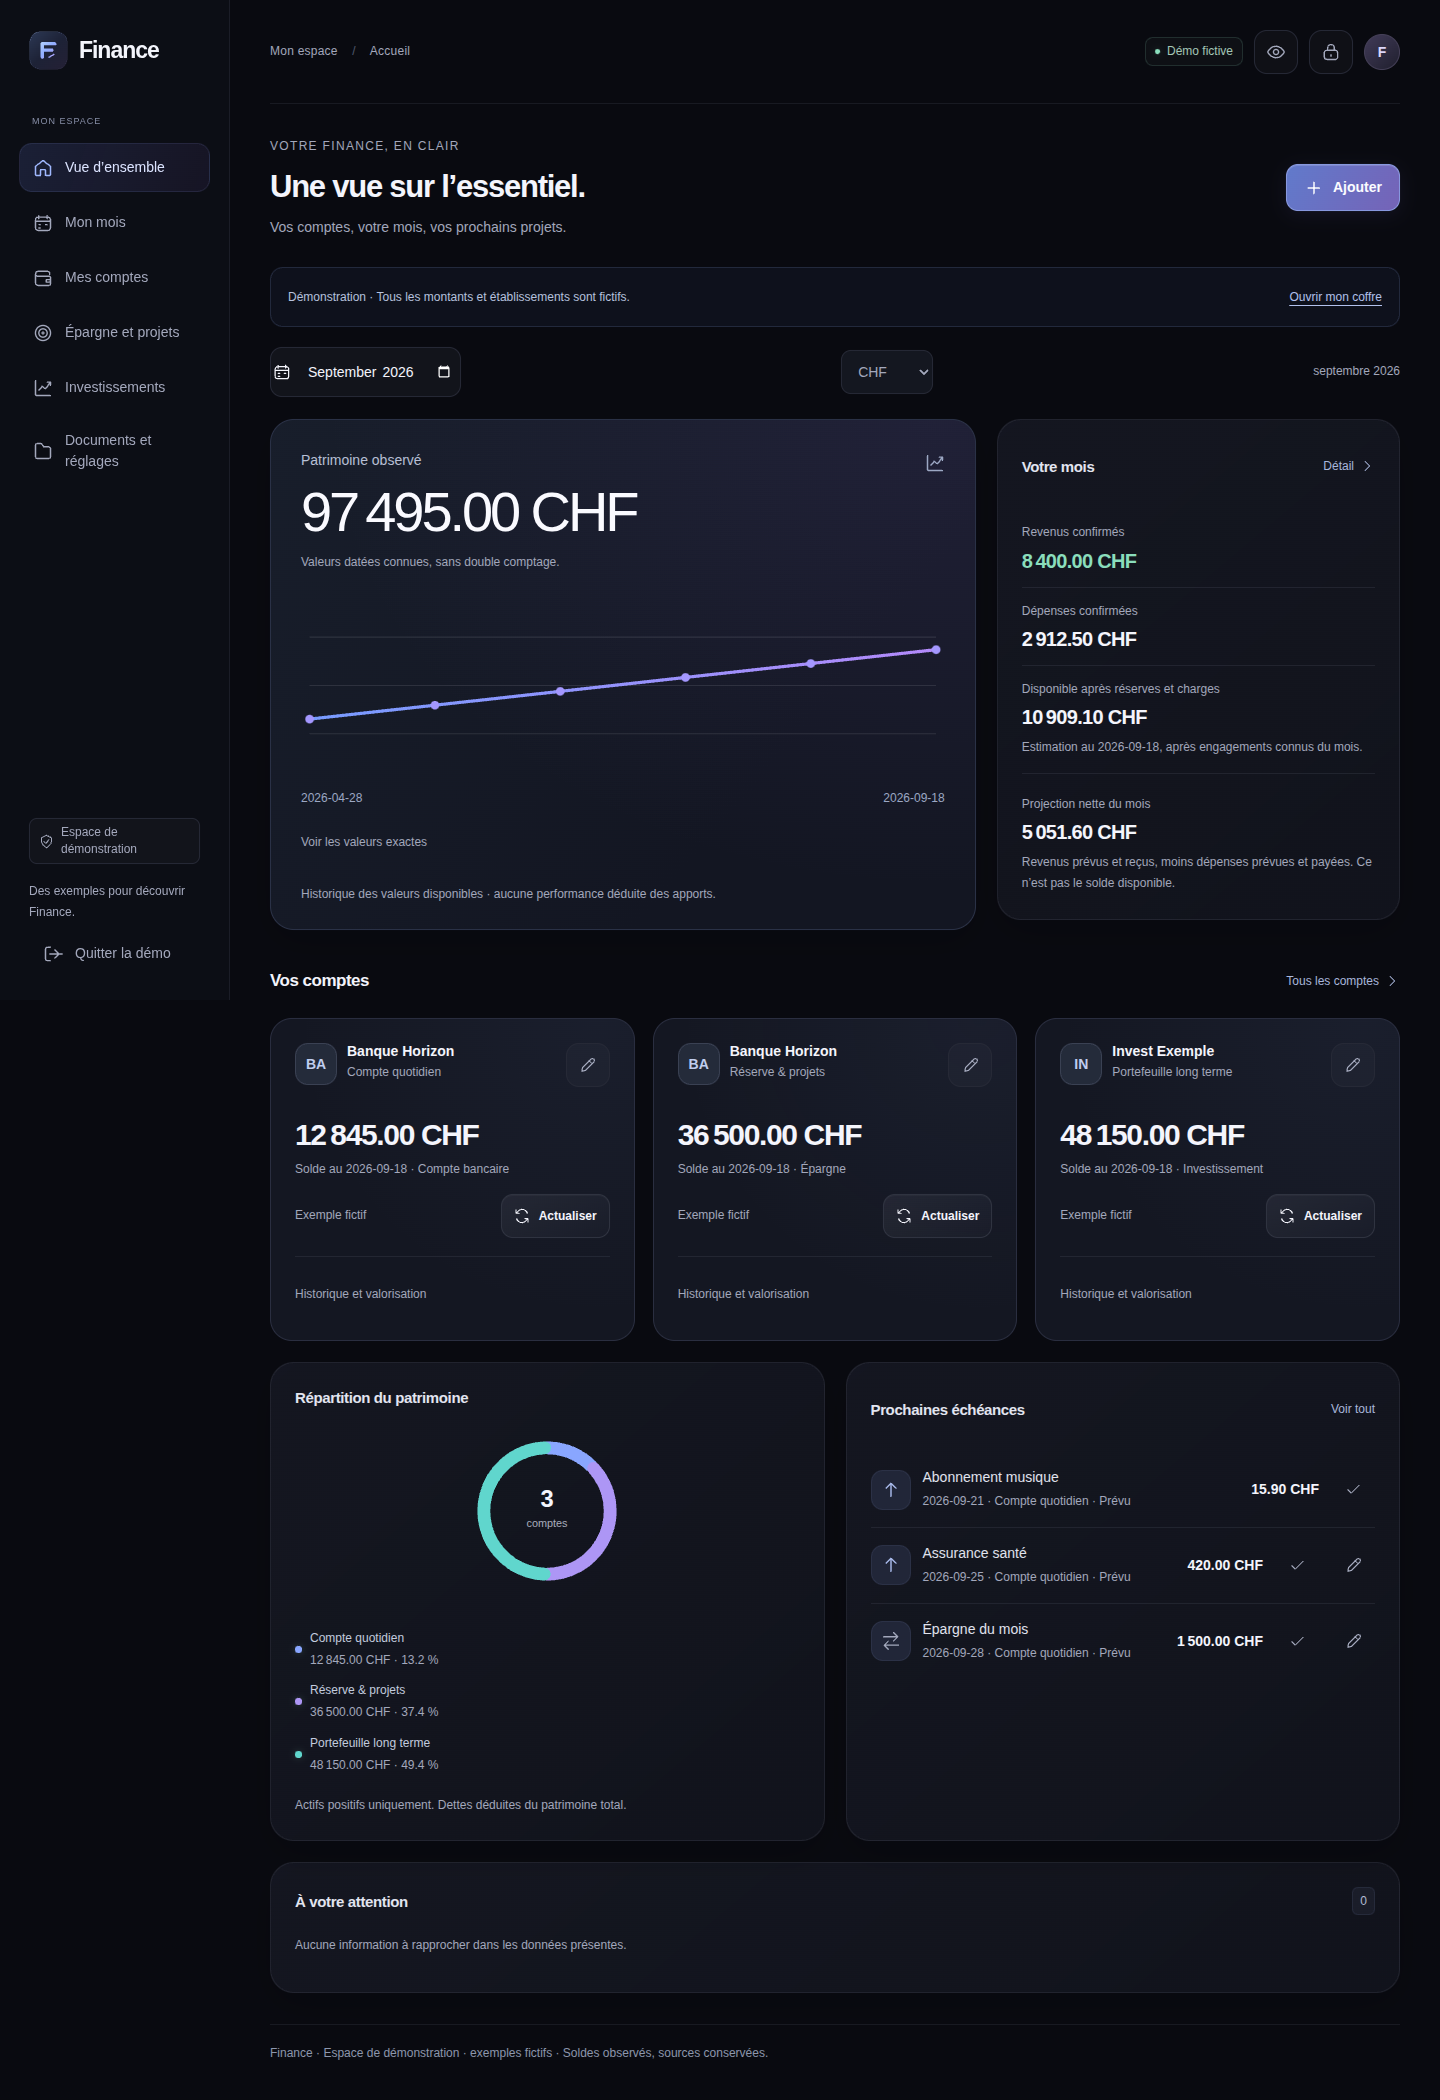
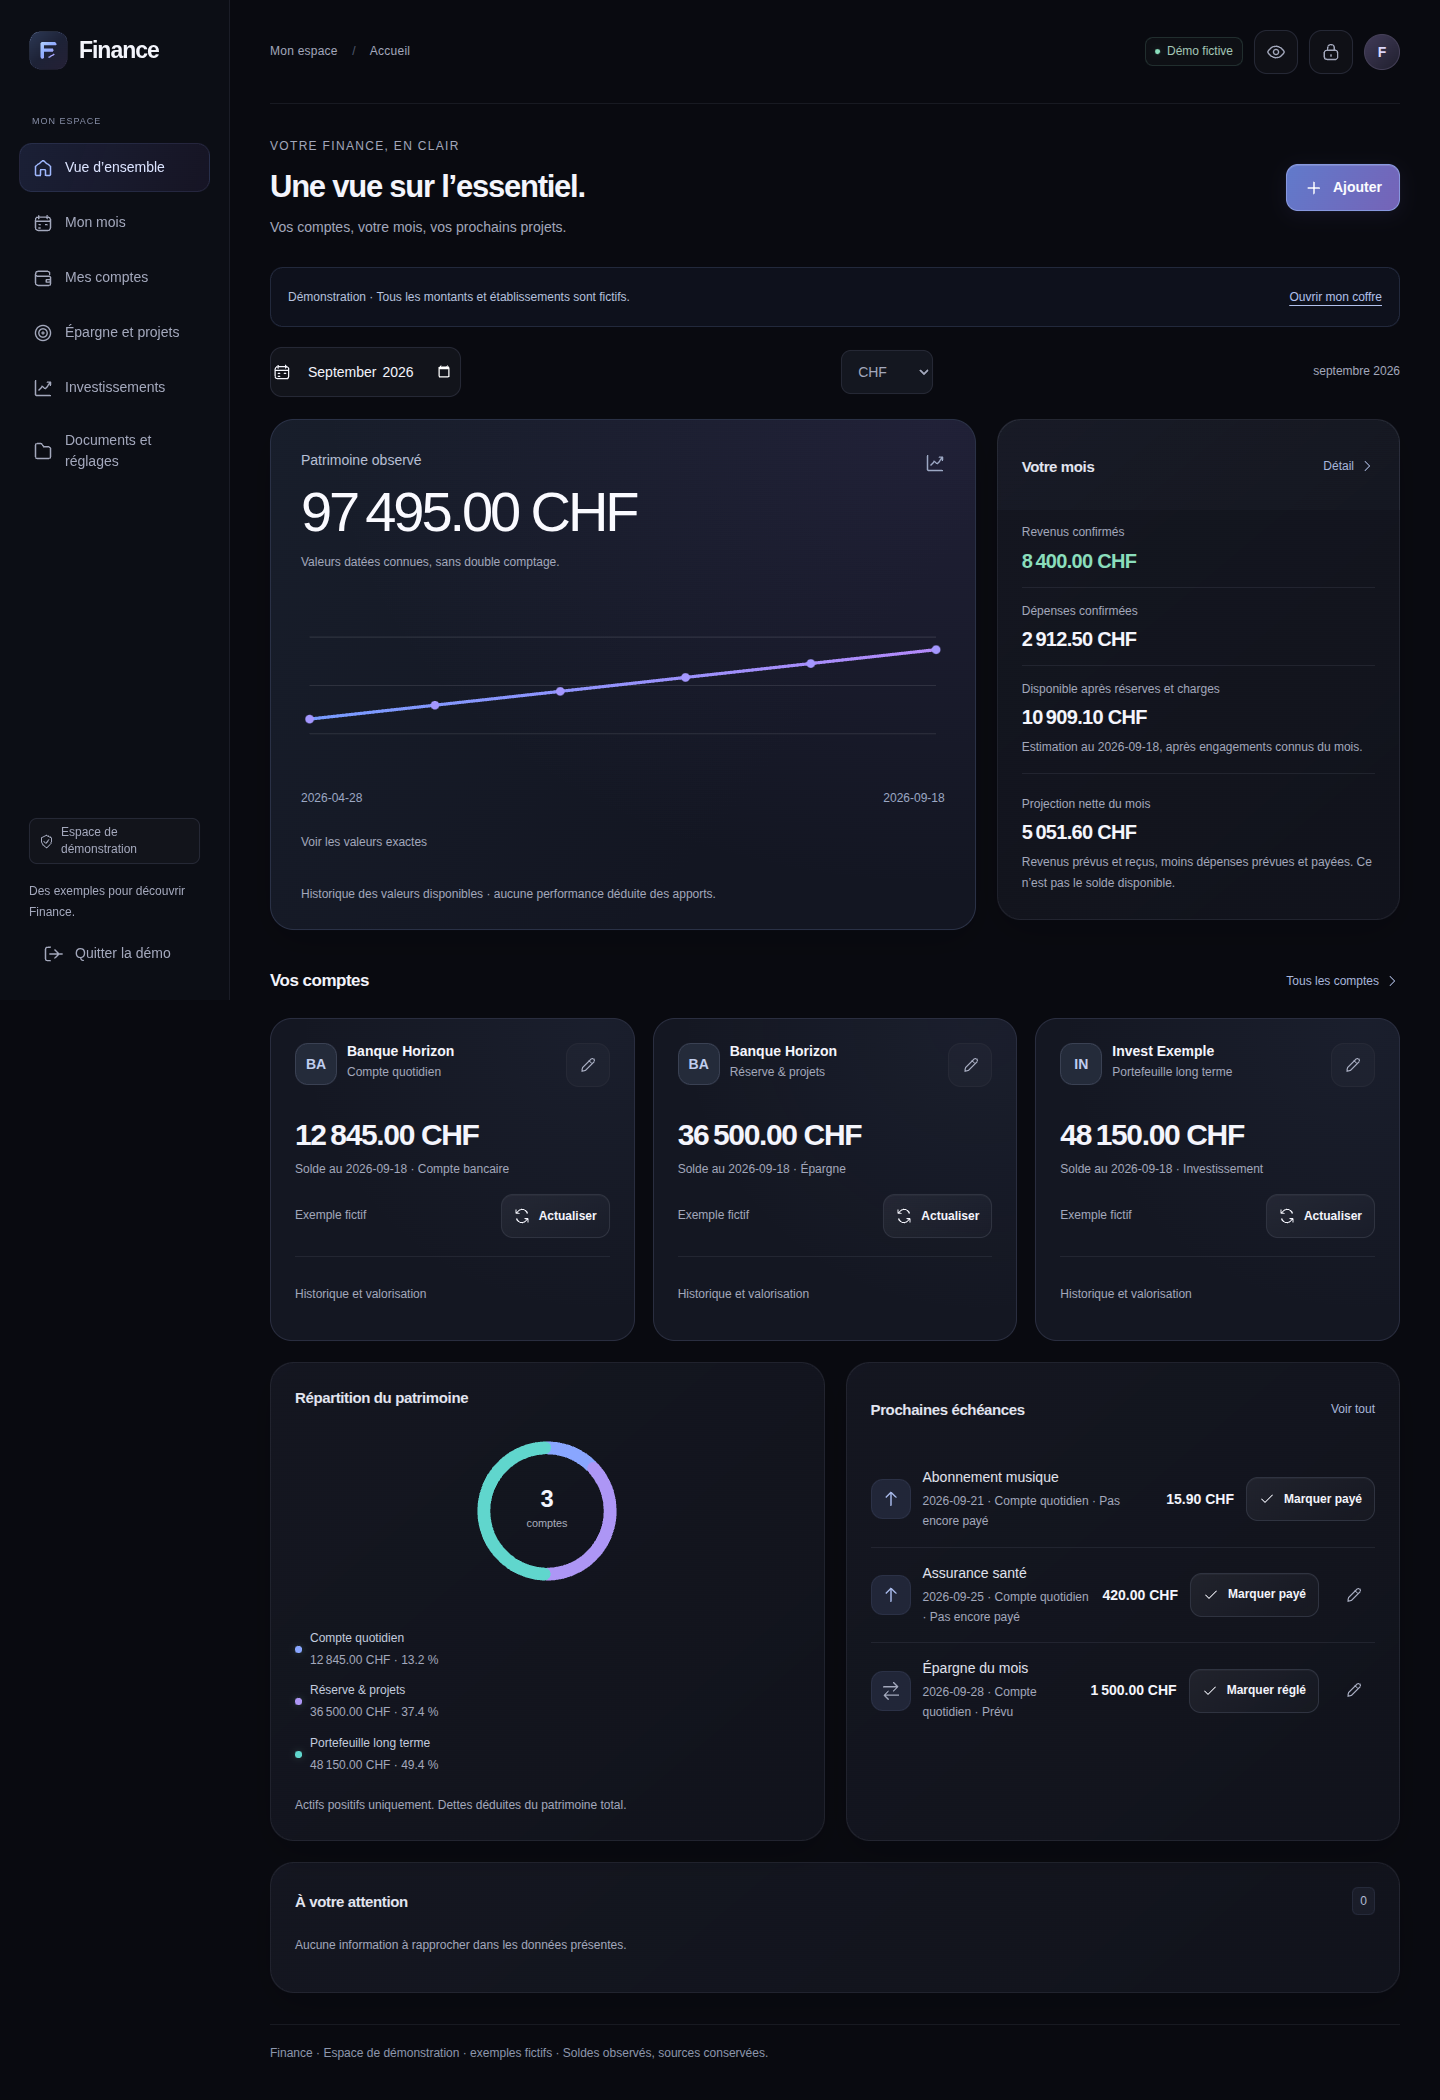
V2.2 (statuts) : payé/reçu explicites, date modifiable, correction sans perte
Volet "statuts" de V2.2 — le sélecteur de mois français et la distinction
cohorte d'échéances / flux réalisé restent non traités.

Remplace le bouton icône générique "Confirmer" par une action texte
sensible au type ("Marquer payé"/"Marquer reçu"/"Marquer réglé") qui ouvre
désormais l'éditeur au lieu d'écrire silencieusement status:"settled" et
date:today() au clic : la date de règlement reste visible et modifiable
avant validation, comme l'exige abonnements.md. EditorSpec gagne un champ
transaction optionnel pour préremplir l'éditeur depuis une occurrence
virtuelle pas encore persistée (data.transactions.find ne peut pas la
trouver par id puisqu'elle n'existe pas encore).

Ajoute une correction "Remettre à payer/recevoir/régler", limitée aux
occurrences liées à une récurrence (occurrenceDate fiable comme date
d'échéance de repli) : remet le statut à prévu, restaure la date
d'échéance, et consigne l'ancienne date de règlement dans source.note au
lieu de l'effacer. Confirmation explicite avant d'agir ; l'identifiant de
la transaction ne change jamais, donc un reçu déjà joint reste lié.

Les libellés de statut ("Payé"/"Reçu"/"Pas encore payé"/"Pas encore reçu")
remplacent le "Confirmé"/"Prévu" générique dans les lignes d'opération et
dans le champ État de l'éditeur, sensibles au type revenu/dépense/virement.

typecheck, 93/93 tests unitaires (inchangés, ce lot est uniquement UI) et
build vérifiés ; les 4 scénarios e2e passent rejoués individuellement,
[…]

Changed region(s): [[0.5938, 0.7119, 0.9062, 0.8357], [0.9062, 0.7119, 0.9375, 0.7429], [0.875, 0.681, 0.9062, 0.7119]]

diff --git a/src/App.tsx b/src/App.tsx
@@ -685,24 +685,70 @@ export default function App() {
       </article>
     );
   }
-  async function settle(t: Transaction) {
+  /** "Prévu" never distinguished a due expense from a due income, and gave no explicit
+   * word for the not-yet state — see docs/AUDIT_UI_V2.md. */
+  function statusWord(t: Transaction): string {
+    if (t.status === "unknown") return "À vérifier";
+    if (t.status === "settled")
+      return t.kind === "income" ? "Reçu" : t.kind === "transfer" ? "Réglé" : "Payé";
+    return t.kind === "income"
+      ? "Pas encore reçu"
+      : t.kind === "transfer"
+        ? "Prévu"
+        : "Pas encore payé";
+  }
+  // Opens the editor pre-filled to settled/today rather than writing it on click: the
+  // settlement date must stay "visible et modifiable avant validation" (see
+  // .claude/skills/finance/references/abonnements.md), not silently forced to today.
+  // `transaction` prefills the form even for a not-yet-persisted virtual occurrence,
+  // which has no entry in data.transactions for the usual by-id lookup to find.
+  function markSettled(t: Transaction) {
+    edit({
+      type: "transaction",
+      id: t.id,
+      kind: t.kind,
+      transaction: { ...t, status: "settled", date: today() },
+    });
+  }
+  // Limited to recurrence-linked occurrences: occurrenceDate is then a reliable due date
+  // to fall back to (see field comment on EditorSpec.transaction). A plain one-off
+  // transaction can still be corrected by hand through the pencil/edit action, which
+  // already exposes État as a free choice.
+  async function revertToPlanned(t: Transaction) {
     if (!data) return;
+    const verb =
+      t.kind === "income" ? "recevoir" : t.kind === "transfer" ? "régler" : "payer";
+    if (
+      !window.confirm(
+        `Remettre « ${t.label} » à ${verb} ? Le règlement du ${t.date ?? "date inconnue"} reste conservé dans l’historique, pas effacé.`,
+      )
+    )
+      return;
     try {
-      const next = {
+      const next: Transaction = {
         ...t,
-        status: "settled" as const,
-        date: today(),
-        source: { ...t.source, updatedAt: new Date().toISOString() },
+        status: "planned",
+        date: t.occurrenceDate ?? t.date,
+        source: {
+          ...t.source,
+          updatedAt: new Date().toISOString(),
+          note: [
+            t.source.note,
+            `Remis à prévu le ${new Date().toISOString()} (réglé précédemment le ${t.date ?? "date inconnue"}).`,
+          ]
+            .filter(Boolean)
+            .join(" · "),
+        },
       };
       await persist({
         ...data,
         transactions: [...data.transactions.filter((v) => v.id !== t.id), next],
       });
       setMessage(
-        "Paiement confirmé. Actualisez le solde du compte après rapprochement.",
+        "Remis à prévu. L’ancienne date de règlement reste dans l’historique.",
       );
     } catch (e) {
-      setError(e instanceof Error ? e.message : "Paiement non enregistré.");
+      setError(e instanceof Error ? e.message : "Correction non enregistrée.");
     }
   }
   function transactionRow(t: Transaction) {
@@ -728,12 +774,7 @@ export default function App() {
               (t.budgetMonth
                 ? monthLabel(t.budgetMonth) + " · jour à vérifier"
                 : "Date à vérifier")}{" "}
-            · {accountName(t.accountId)} ·{" "}
-            {t.status === "settled"
-              ? "Confirmé"
-              : t.status === "planned"
-                ? "Prévu"
-                : "À vérifier"}
+            · {accountName(t.accountId)} · {statusWord(t)}
             {data?.documents.some((d) => d.transactionId === t.id) &&
               " · Justificatif joint"}
           </span>
@@ -743,22 +784,25 @@ export default function App() {
           {display(t.amountMinor, t.currency)}
         </span>
         {t.status === "planned" ? (
-          <button
-            className="icon-button"
-            title="Confirmer le paiement aujourd’hui"
-            aria-label={`Confirmer ${t.label}`}
-            onClick={() => settle(t)}
-          >
-            <Icon name="check" size={17} />
+          <button className="button small secondary" onClick={() => markSettled(t)}>
+            <Icon name="check" size={16} />
+            {t.kind === "income"
+              ? "Marquer reçu"
+              : t.kind === "transfer"
+                ? "Marquer réglé"
+                : "Marquer payé"}
           </button>
         ) : null}
         {data?.transactions.some((i) => i.id === t.id) && (
           <>
             {
-              // Kept exclusive with the "confirmer" action above so a row never carries
-              // three icon buttons at once (crowds the label on an iPhone width). A
-              // receipt is also most often at hand once the operation is settled; a
-              // planned operation can still be reached from Documents et réglages.
+              // Kept exclusive with the "marquer" action above so a planned row never
+              // crowds two actions (the label wraps on an iPhone width). A receipt is
+              // also most often at hand once the operation is settled; a planned
+              // operation can still be reached from Documents et réglages. The
+              // correction action below adds a third icon-button only for the narrower
+              // recurrence-linked case — accepted for now, to revisit with the row
+              // density rework of V2.5.
               t.status !== "planned" && (
                 <label
                   className="icon-button"
@@ -774,6 +818,22 @@ export default function App() {
                 </label>
               )
             }
+            {t.status === "settled" && t.recurrenceId && t.occurrenceDate && (
+              <button
+                className="icon-button"
+                title="Corriger : remettre à prévu"
+                aria-label={`${
+                  t.kind === "income"
+                    ? "Remettre à recevoir"
+                    : t.kind === "transfer"
+                      ? "Remettre à régler"
+                      : "Remettre à payer"
+                } ${t.label}`}
+                onClick={() => revertToPlanned(t)}
+              >
+                <Icon name="refresh" size={17} />
+              </button>
+            )}
             <button
               className="icon-button"
               aria-label={`Modifier ${t.label}`}

diff --git a/tests/finance.spec.ts b/tests/finance.spec.ts
@@ -258,9 +258,7 @@ test("daily entries: income, currency-synced transfer, recurrence, investment-on
   await dialog
     .getByLabel("Compte", { exact: true })
     .selectOption({ label: "Compte principal test · CHF" });
-  await dialog
-    .getByLabel("État", { exact: true })
-    .selectOption({ label: "Payé / reçu, confirmé" });
+  await dialog.getByLabel("État", { exact: true }).selectOption({ label: "Reçu" });
   await dialog
     .getByRole("button", { name: "Enregistrer", exact: true })
     .click();
@@ -316,6 +314,10 @@ test("daily entries: income, currency-synced transfer, recurrence, investment-on
   );
   await dialog.getByLabel("Catégorie", { exact: true }).fill("Assurances");
   await dialog.getByLabel("Jour du mois", { exact: true }).fill("15");
+  // A start date safely before this month's day 15 guarantees this month's occurrence
+  // exists regardless of which day "today" actually is when the suite runs (defaulting
+  // to today would often push the start past the 15th and skip this month entirely).
+  await dialog.getByLabel("Début", { exact: true }).fill("2026-01-01");
   await dialog
     .getByRole("button", { name: "Enregistrer", exact: true })
     .click();
@@ -333,6 +335,38 @@ test("daily entries: income, currency-synced transfer, recurrence, investment-on
   );
   await dialog.getByRole("button", { name: "Fermer" }).click();
   await expect(page.getByRole("dialog")).toHaveCount(0);
+
+  // 2bis) Statuts explicites : "Marquer payé" ouvre l'éditeur avec la date de règlement
+  // visible et modifiable (pas d'écriture silencieuse), "Remettre à payer" revient en
+  // arrière sans effacer la trace du règlement précédent.
+  const occurrenceRow = page
+    .locator(".row", { hasText: "Assurance test" })
+    .filter({ hasNotText: "tous les" });
+  await expect(occurrenceRow).toContainText("Pas encore payé");
+  await occurrenceRow
+    .getByRole("button", { name: "Marquer payé", exact: true })
+    .click();
+  dialog = page.getByRole("dialog");
+  await expect(dialog.getByLabel("Libellé", { exact: true })).toHaveValue(
+    "Assurance test",
+  );
+  await expect(dialog.getByLabel("État", { exact: true })).toHaveValue(
+    "settled",
+  );
+  await expect(
+    dialog.getByLabel("Date de l’opération ou échéance", { exact: true }),
+  ).not.toHaveValue("");
+  await dialog
+    .getByRole("button", { name: "Enregistrer", exact: true })
+    .click();
+  await expect(page.getByRole("dialog")).toHaveCount(0);
+  await expect(occurrenceRow).toContainText("Payé");
+  await expect(occurrenceRow).not.toContainText("Pas encore payé");
+  page.once("dialog", (d) => d.accept());
+  await occurrenceRow
+    .getByRole("button", { name: "Remettre à payer Assurance test", exact: true })
+    .click();
+  await expect(occurrenceRow).toContainText("Pas encore payé");
 
   // 3) Transfer between two accounts of different currencies: source account is required,
   // currency is deduced from it, and the destination amount is required across currencies.

diff --git a/src/components/Editor.tsx b/src/components/Editor.tsx
@@ -11,6 +11,7 @@ import {
   type FinanceData,
   type Recurrence,
   type Source,
+  type Transaction,
 } from "../domain/types";
 import { parseMoney, today, withRecurrenceAmount } from "../domain/finance";
 import { Icon } from "./Icon";
@@ -36,6 +37,11 @@ export type EditorSpec = {
     | "fx";
   id?: string;
   kind?: "income" | "expense" | "transfer";
+  /** Prefills a transaction editor from a not-yet-persisted occurrence (a virtual planned
+   * projection from `transactionsForMonth`, not yet in `data.transactions`) instead of the
+   * usual lookup by `id`. Used to open "Marquer payé/reçu" with the settlement date visible
+   * and editable before it is actually saved, rather than writing it silently on click. */
+  transaction?: Transaction;
 };
 const titles = {
   transaction: "Une opération",
@@ -84,7 +90,7 @@ export default function Editor({
     recurrenceKind === "income" ? "income" : expenseRecurrenceType;
   const item =
     spec.type === "transaction"
-      ? data.transactions.find((i) => i.id === spec.id)
+      ? (data.transactions.find((i) => i.id === spec.id) ?? spec.transaction)
       : spec.type === "account" || spec.type === "balance"
         ? data.accounts.find((i) => i.id === spec.id)
         : spec.type === "goal"
@@ -479,8 +485,20 @@ export default function Editor({
                 defaultValue: val("status", "planned"),
                 children: (
                   <>
-                    <option value="planned">Prévu</option>
-                    <option value="settled">Payé / reçu, confirmé</option>
+                    <option value="planned">
+                      {kind === "income"
+                        ? "Pas encore reçu"
+                        : kind === "expense"
+                          ? "Pas encore payé"
+                          : "Prévu"}
+                    </option>
+                    <option value="settled">
+                      {kind === "income"
+                        ? "Reçu"
+                        : kind === "expense"
+                          ? "Payé"
+                          : "Réglé"}
+                    </option>
                     <option value="unknown">À vérifier</option>
                   </>
                 ),
